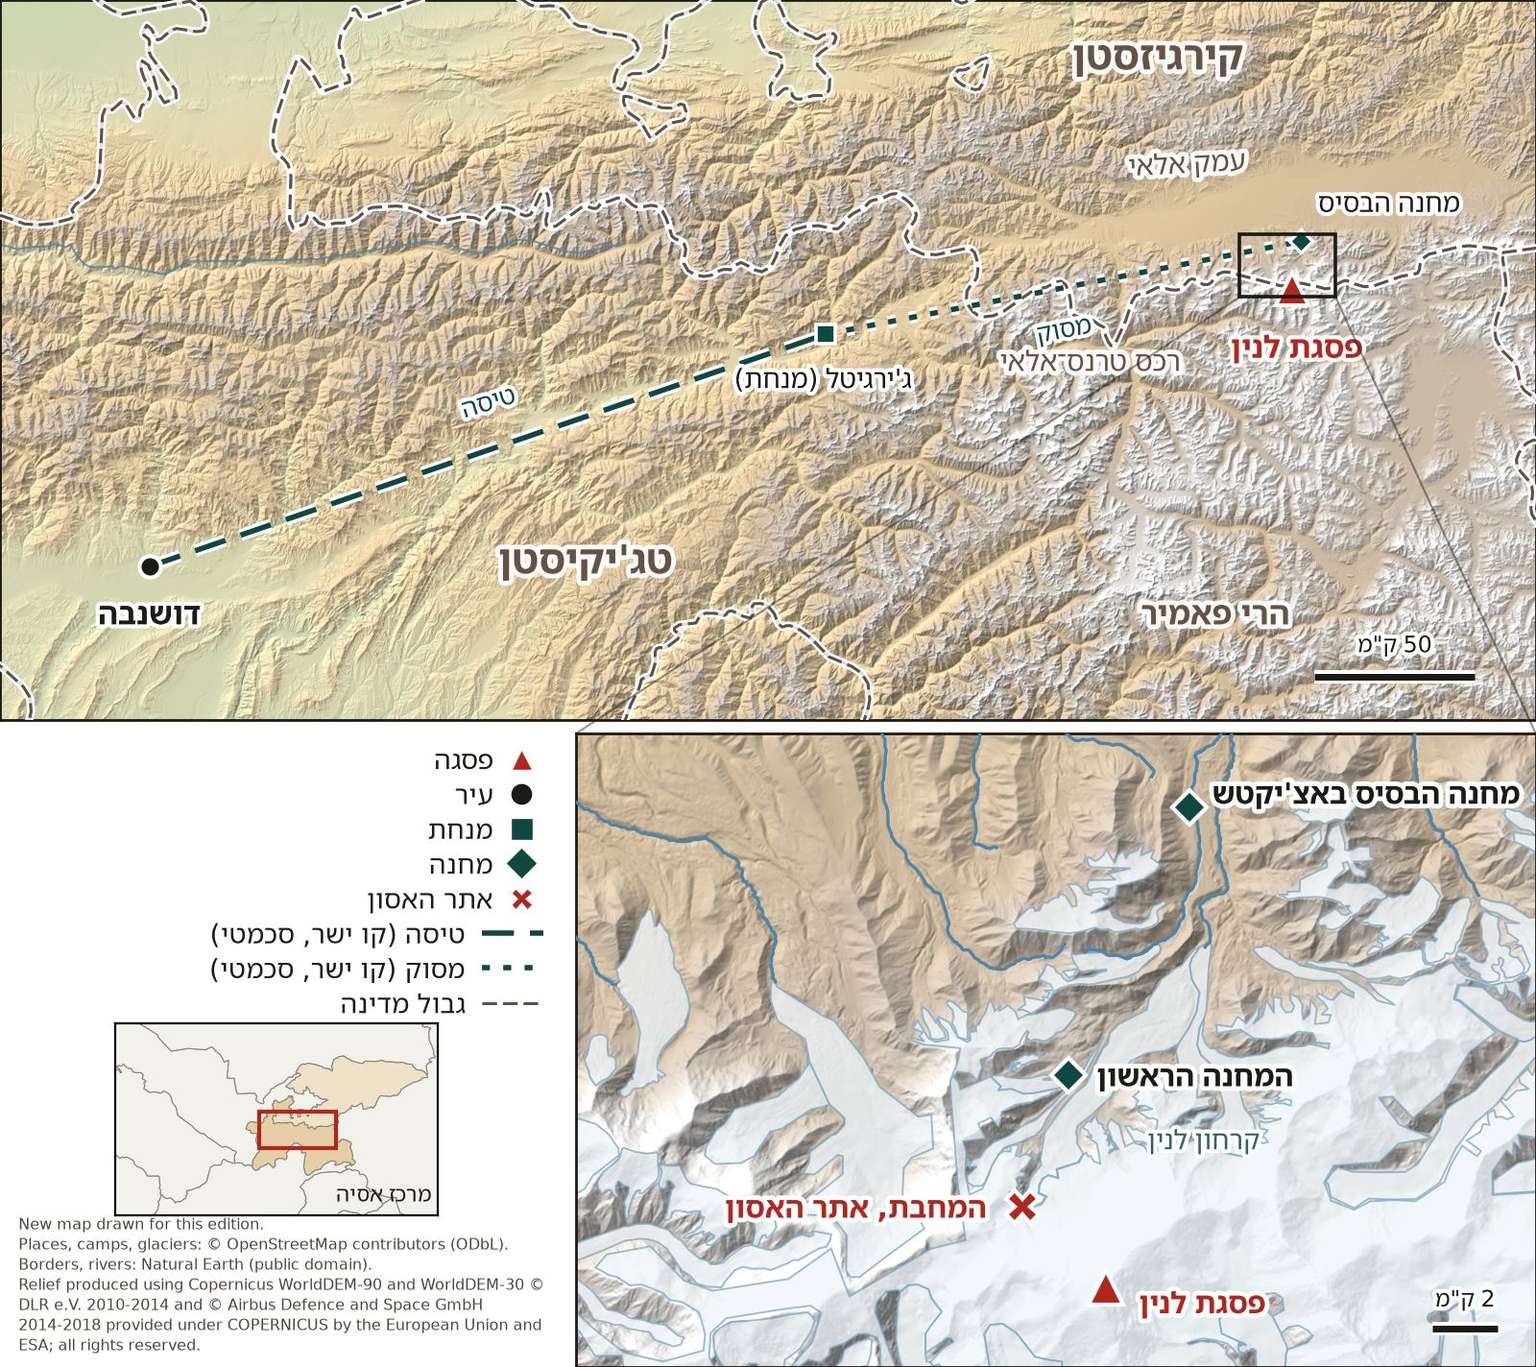
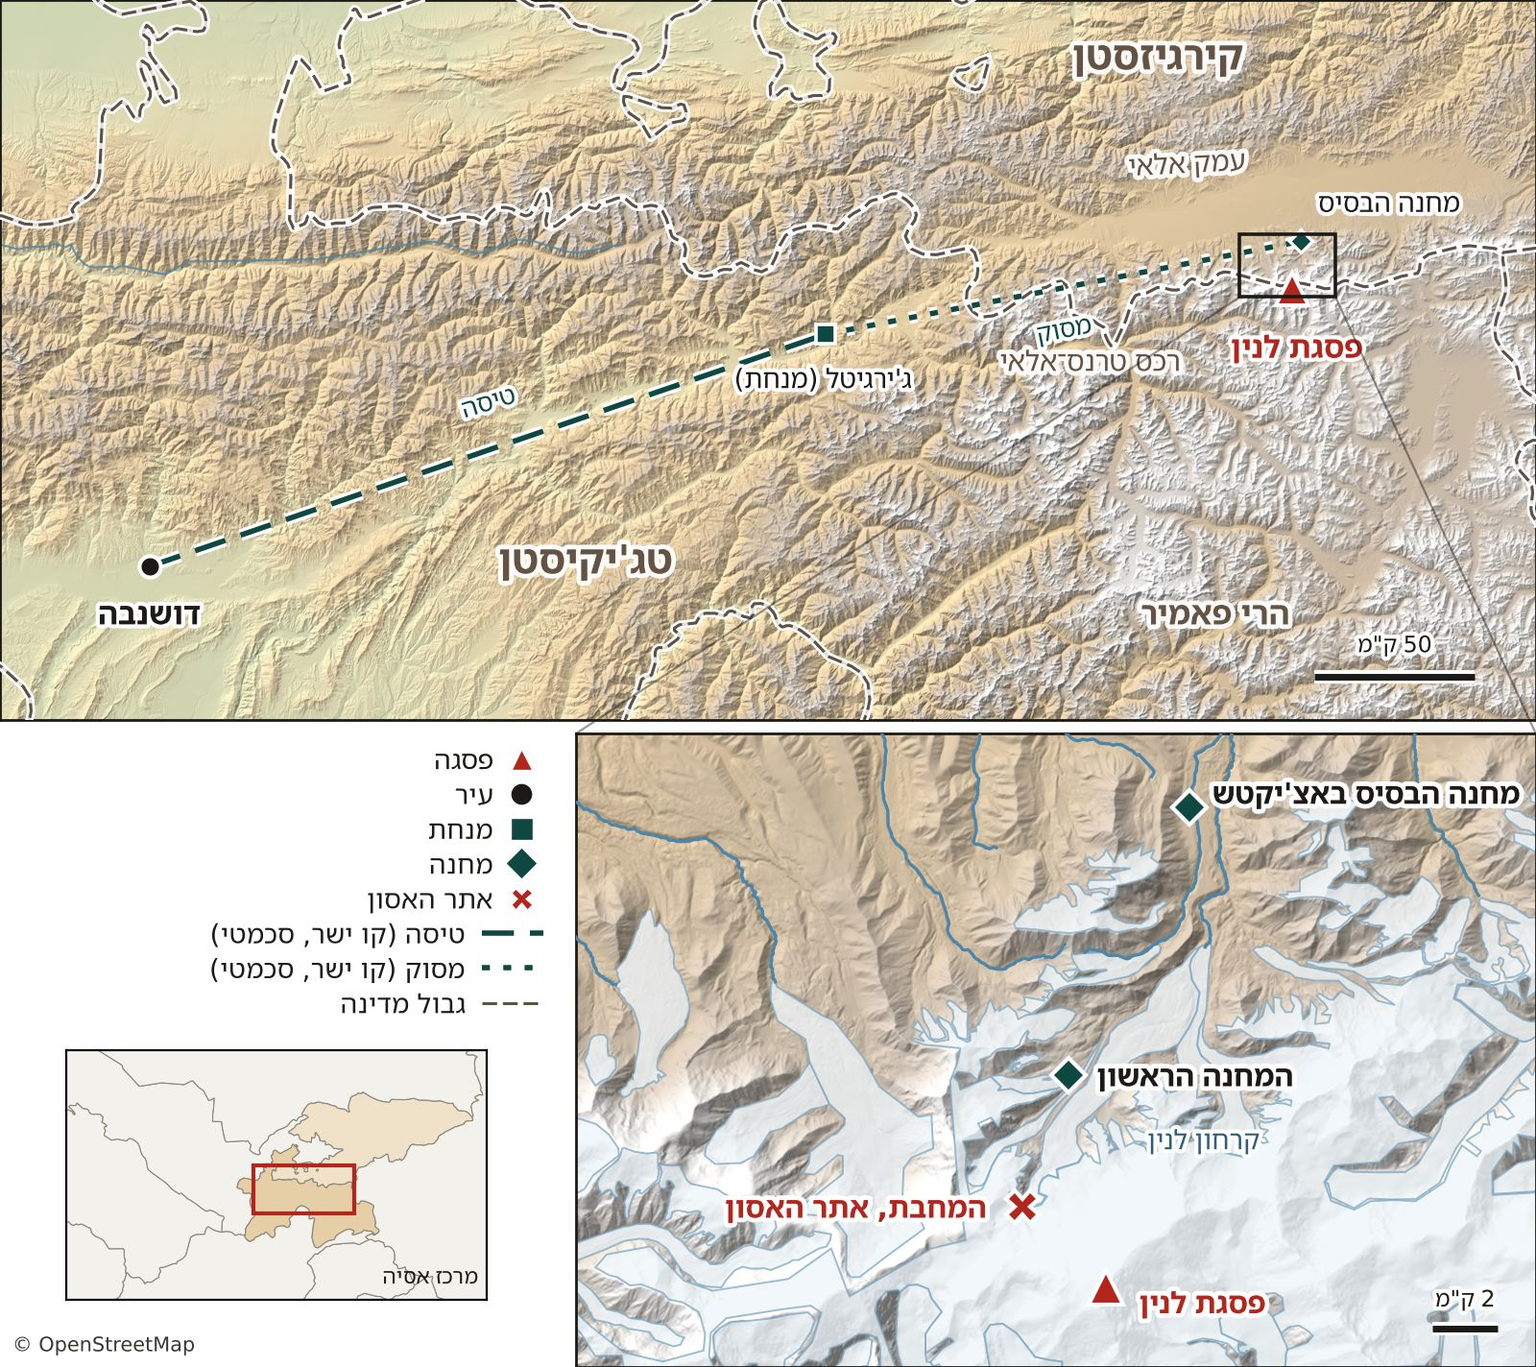
fix: map images carry only a small OpenStreetMap credit
Full OSM and Copernicus DEM notices move to the edition note and the web
credits (content-data/attribution.md quotes the licence clauses). Web map
specs use the OpenTopoMap attribution with links.

Changed region(s): [[0.0, 0.7416, 0.3438, 0.9888]]

diff --git a/scripts/jordan_maps.py b/scripts/jordan_maps.py
@@ -18,7 +18,7 @@ Part C Final Report vol. 1 (2008), section 3.1 segment B and section 3.3.3.5,
 https://www.dfc.gov/sites/default/files/esia/2008/ammanwater/Part%20C%20-Final%20Report-Vol1.pdf
 The alternative routes ALT-1 to ALT-4 in the printed image have no open source, so the view leaves them out.
 
-Data: Copernicus DEM GLO-90 (map_common.dem_credit), OpenStreetMap via Overpass (ODbL),
+Data: Copernicus DEM GLO-90 (notice in map_common.DEM_NOTICE), OpenStreetMap via Overpass (ODbL),
 Natural Earth v5.1.2 borders (public domain).
 
 Usage: uv run scripts/jordan_maps.py
@@ -36,8 +36,9 @@ import numpy as np  # noqa: E402
 from matplotlib.patches import Circle, FancyArrowPatch  # noqa: E402
 from matplotlib.path import Path as PolyPath  # noqa: E402
 
-from map_common import (DEM_PIXELS_PER_DEGREE, NE_CREDIT, OSM_CREDIT, OTM_CREDIT, ROOT, credit_text, dem,  # noqa: E402
-                        dem_credit, halo, hebrew_fonts, hillshade, km_per_degree_lon, natural_earth, osm_element,
+from map_common import (DEM_NOTICE, DEM_PIXELS_PER_DEGREE, OSM_CREDIT, ROOT, WEB_ATTRIBUTION,  # noqa: E402
+                        WEB_ATTRIBUTION_LINKS, dem, halo, hebrew_fonts, hillshade, image_credit, km_per_degree_lon,
+                        natural_earth, osm_element,
                         osm_line, osm_point, osm_rings, overpass, relief, rings, save_jpeg, write_spec)
 
 MAP_OUT = ROOT / "replacements" / "p301-x1169-open-map.jpg"
@@ -216,8 +217,7 @@ def conveyance_map(font, bold, coords, water, countries) -> dict:
     lg.text(0.96, 0.25, "מפה חדשה שצוירה למהדורה זו לפי הטקסט בפרק.\nאינה האיור של ביין וחובריו (2020).\n"
             "התוואי ומיקום המתקן אינם מדויקים.", fontproperties=font, fontsize=8.5, color=INK, ha="right", va="center",
             linespacing=1.35)
-    fig.text(0.98, 0.006, credit_text(f"{OSM_CREDIT} · Borders: {NE_CREDIT}", dem_credit(90) + ".", width=88),
-             fontsize=5.4, color="#4d463e", ha="right", va="bottom", linespacing=1.3, path_effects=halo(2))
+    image_credit(fig, x=0.985, ha="right")  # Full credits: edition note (book.toml) and content-data/attribution.md.
     save_jpeg(fig, MAP_OUT)
     plt.close(fig)
 
@@ -243,11 +243,12 @@ def conveyance_map(font, bold, coords, water, countries) -> dict:
                    "source": schematic.format("a36-p045, a36-p048, fig-a36-09 caption")}],
         "areas": [{"name": "מתקן התפלה, מיקום משוער", "coords": circle,
                    "source": "The book says only 'near the Dead Sea' (a36-p045); zone drawn for this edition"}],
-        "attribution": [OSM_CREDIT, OTM_CREDIT],
+        "attribution": WEB_ATTRIBUTION,
+        "attribution_links": WEB_ATTRIBUTION_LINKS,
         "note": ("New schematic map drawn for this edition from the text of chapter a36. It is not the figure of Bein et al. "
                  "(2020), which stays withheld. Quantities are phase A from the printed caption. The static EPUB image "
                  "(replacements/p301-x1169-open-map.jpg, scripts/jordan_maps.py) adds Copernicus DEM relief and "
-                 "Natural Earth borders. " + dem_credit(90) + "."),
+                 "Natural Earth borders. " + "Relief notice: " + DEM_NOTICE[90] + "."),
     }
 
 
@@ -386,8 +387,7 @@ def plateau_view(font, bold, coords, water, roads) -> dict:
     box = {"facecolor": "white", "alpha": 0.85, "edgecolor": "none", "boxstyle": "round,pad=0.35"}
     out.text(0.985, 0.97, "מבט חדש שצויר למהדורה זו, לכיוון צפון־מזרח. הגבהים מוגדלים פי 2.", fontproperties=font,
              fontsize=9, color=INK, ha="right", va="top", bbox=box)
-    out.text(0.014, 0.014, credit_text(f"Roads: {OSM_CREDIT}", dem_credit(90) + ".", width=110), fontsize=5.2,
-             color="#3d3730", ha="left", va="bottom", linespacing=1.3, bbox=box)
+    image_credit(out, x=0.012, y=0.012)  # Full credits: edition note (book.toml) and content-data/attribution.md.
     save_jpeg(out, VIEW_OUT)
     plt.close(out)
 
@@ -434,12 +434,13 @@ def plateau_view(font, bold, coords, water, roads) -> dict:
                    for c in web_line(road_lines(roads, "15"), web_north)]
                   + [{"name": "דרך המלך (כביש 35)", "coords": c, "source": f"OSM ways tagged ref=35 ({OSM_CREDIT})"}
                      for c in web_line(road_lines(roads, "35"), north)]),
-        "attribution": [OSM_CREDIT, OTM_CREDIT],
+        "attribution": WEB_ATTRIBUTION,
+        "attribution_links": WEB_ATTRIBUTION_LINKS,
         "note": ("New view drawn for this edition; the printed Google Earth image stays withheld. Highways from OSM; "
                  "the King's Highway is shown only in the area of the printed view. The printed alternative routes "
                  "ALT-1 to ALT-4 have no open source and are not shown. Amman is the end of the Desert Highway line "
                  f"(OSM node {PLACES['amman'][0]}). The static EPUB image (replacements/p302-x1173-open-view.jpg, "
-                 "scripts/jordan_maps.py) is a perspective relief view. " + dem_credit(90) + "."),
+                 "scripts/jordan_maps.py) is a perspective relief view. " + "Relief notice: " + DEM_NOTICE[90] + "."),
     }
 
 

diff --git a/scripts/pamir_map.py b/scripts/pamir_map.py
@@ -9,7 +9,7 @@ It shows the places that chapter a10 names: Dushanbe (a10-p007), the Jirgatal ai
 at Achik-Tash (a10-p010), the first camp at 4,400 m (a10-p016, a10-p018), the Frying Pan (a10-p002) and Lenin Peak.
 
 Data:
-- Relief: Copernicus DEM GLO-90 (overview) and GLO-30 (detail), free licence with attribution (map_common.dem_credit).
+- Relief: Copernicus DEM GLO-90 (overview) and GLO-30 (detail), free licence; notice in map_common.DEM_NOTICE.
 - Places, camps, glaciers, rivers in the detail: OpenStreetMap via Overpass, ODbL. Element IDs in PLACES.
 - Borders, rivers and lakes in the overview: Natural Earth v5.1.2, public domain.
 - Range and valley labels: placed by hand along the relief; Wikidata Q1206886 (Trans-Alay Range) and Q2282164 (Alay Valley)
@@ -27,7 +27,8 @@ matplotlib.use("Agg")
 import matplotlib.pyplot as plt  # noqa: E402
 from matplotlib.patches import ConnectionPatch, Rectangle  # noqa: E402
 
-from map_common import (DEM_PIXELS_PER_DEGREE, NE_CREDIT, credit_text, OSM_CREDIT, OTM_CREDIT, ROOT, dem, dem_credit, halo, hebrew_fonts,  # noqa: E402
+from map_common import (DEM_NOTICE, DEM_PIXELS_PER_DEGREE, OSM_CREDIT, ROOT, WEB_ATTRIBUTION, WEB_ATTRIBUTION_LINKS,  # noqa: E402
+                        dem, halo, hebrew_fonts, image_credit,
                         hillshade, km_per_degree_lon, natural_earth, osm_element, osm_line, osm_point, osm_rings,
                         overpass, relief, rings, save_jpeg, write_spec)
 
@@ -209,7 +210,7 @@ def main() -> None:
     legend.plot([0.86, 0.97], [y, y], color="#5c5047", linewidth=1.1, dashes=(5, 2))
     legend.text(0.83, y, "גבול מדינה", fontproperties=font, fontsize=10, color=INK, ha="right", va="center")
 
-    loc = fig.add_axes((0.03, 158 / height_px, 0.3, 200 / height_px))
+    loc = fig.add_axes((0.03, 70 / height_px, 0.3, 260 / height_px))
     lw, le, ls, ln = 58.0, 81.0, 34.5, 45.0
     loc.set_xlim(lw, le)
     loc.set_ylim(ls, ln)
@@ -225,9 +226,7 @@ def main() -> None:
     loc.add_patch(Rectangle((MAIN[0], MAIN[2]), MAIN[1] - MAIN[0], MAIN[3] - MAIN[2], fill=False, edgecolor=ACCENT, linewidth=1.5))
     loc.text(0.98, 0.04, "מרכז אסיה", transform=loc.transAxes, fontproperties=font, fontsize=8, color=INK, ha="right", va="bottom")
 
-    credits = credit_text("New map drawn for this edition.", f"Places, camps, glaciers: {OSM_CREDIT}.",
-                          f"Borders, rivers: {NE_CREDIT}.", dem_credit(90, 30) + ".", width=62)
-    fig.text(0.012, 0.008, credits, fontsize=5.6, color="#4d463e", ha="left", va="bottom", linespacing=1.35)
+    image_credit(fig)  # Full credits: edition note (book.toml) and content-data/attribution.md.
     save_jpeg(fig, OUT)
 
     markers = []
@@ -247,10 +246,12 @@ def main() -> None:
                    "source": "Route as told in a10-p008; straight line between the OSM points, not the flight path"},
                   {"name": "מסוק מג'ירגיטל למחנה הבסיס (קו ישר, סכמטי)", "coords": [[round(j_lat, 6), round(j_lon, 6)], [round(b_lat, 6), round(b_lon, 6)]],
                    "source": "Route as told in a10-p008 and a10-p010; straight line between the OSM points"}],
-        "attribution": [OSM_CREDIT, OTM_CREDIT],
+        "attribution": WEB_ATTRIBUTION,
+        "attribution_links": WEB_ATTRIBUTION_LINKS,
         "note": ("Places from OpenStreetMap (element IDs in each marker source). The book gives heights that differ from "
                  "OSM; the map shows no heights. The static EPUB image (replacements/p066-x251-open-map.jpg, "
-                 "scripts/pamir_map.py) adds Copernicus DEM relief and Natural Earth borders. " + dem_credit(90, 30) + "."),
+                 "scripts/pamir_map.py) adds Copernicus DEM relief and Natural Earth borders. Relief notice: "
+                 + DEM_NOTICE[90] + "; " + DEM_NOTICE[30] + "."),
     })
 
 

diff --git a/scripts/map_common.py b/scripts/map_common.py
@@ -8,7 +8,6 @@ import hashlib
 import io
 import json
 import math
-import textwrap
 import time
 import urllib.error
 import urllib.parse
@@ -30,21 +29,25 @@ DEM_URL = {90: "https://copernicus-dem-90m.s3.amazonaws.com/Copernicus_DSM_COG_3
            30: "https://copernicus-dem-30m.s3.amazonaws.com/Copernicus_DSM_COG_10_{tile}_DEM/Copernicus_DSM_COG_10_{tile}_DEM.tif"}
 DEM_PIXELS_PER_DEGREE = {90: 1200, 30: 3600}
 
-OSM_CREDIT = "© OpenStreetMap contributors (ODbL)"
-NE_CREDIT = "Natural Earth (public domain)"
-OTM_CREDIT = "Map style: © OpenTopoMap (CC BY-SA)"
+OSM_CREDIT = "© OpenStreetMap contributors (ODbL)"  # In source notes of the specs, not shown to readers.
+# Minimal credits; the clauses behind each one are quoted in content-data/attribution.md.
+OSM_IMAGE_CREDIT = "© OpenStreetMap"  # Shortest accepted form (OSMF Attribution Guidelines, "Attribution text").
+OSM_COPYRIGHT_URL = "https://www.openstreetmap.org/copyright"
+WEB_ATTRIBUTION = ["Map data: © OpenStreetMap contributors, SRTM", "Map display: © OpenTopoMap (CC-BY-SA)"]
+WEB_ATTRIBUTION_LINKS = {"OpenStreetMap": OSM_COPYRIGHT_URL, "OpenTopoMap": "https://opentopomap.org",
+                         "CC-BY-SA": "https://creativecommons.org/licenses/by-sa/3.0/"}
+# Copernicus DEM licence, Article 6(b): notice for adapted or modified data, word for word (GLO-90 writes "™").
+DEM_NOTICE = {
+    90: ("produced using Copernicus WorldDEM™-90 © DLR e.V. 2010-2014 and © Airbus Defence and Space GmbH 2014-2018 "
+         "provided under COPERNICUS by the European Union and ESA; all rights reserved"),
+    30: ("produced using Copernicus WorldDEM-30 © DLR e.V. 2010-2014 and © Airbus Defence and Space GmbH 2014-2018 "
+         "provided under COPERNICUS by the European Union and ESA; all rights reserved"),
+}
 
 
-def dem_credit(*resolutions: int) -> str:
-    """Attribution that the Copernicus DEM licence (Article 6) asks for on modified data."""
-    products = " and ".join(f"WorldDEM-{r}" for r in resolutions)
-    return (f"Relief produced using Copernicus {products} © DLR e.V. 2010-2014 and © Airbus Defence and Space GmbH "
-            "2014-2018 provided under COPERNICUS by the European Union and ESA; all rights reserved")
-
-
-def credit_text(*parts: str, width: int) -> str:
-    """Credit lines for the corner of a static map, wrapped to `width` characters."""
-    return "\n".join(textwrap.fill(part, width) for part in parts)
+def image_credit(fig, x: float = 0.008, y: float = 0.008, ha: str = "left") -> None:
+    """The only text credit inside a static map image: a small "© OpenStreetMap" in a corner."""
+    fig.text(x, y, OSM_IMAGE_CREDIT, fontsize=7.5, color="#3d3730", ha=ha, va="bottom", path_effects=halo(2.5))
 
 
 def download(url: str, path: Path) -> bytes:

diff --git a/content-data/attribution.md b/content-data/attribution.md
@@ -1,0 +1,70 @@
+# Attribution for the edition maps
+
+Maps agent, 2026-11-24.
+Scope: the three static map images in replacements/ (p066-x251, p301-x1169, p302-x1173), the web map specs in site/figure-maps/, and the then-and-now layers in site/then-now.json.
+Rule: each image carries only the minimum that each licence allows on the image. The full wording goes in the edition note that the EPUB prints under the image, and in the web credit.
+
+## 1. OpenStreetMap (ODbL)
+
+Source: OSMF, "Licence/Attribution Guidelines", https://osmfoundation.org/wiki/Licence/Attribution_Guidelines , revision 14786 of 2026-09-10. The raw text is saved in work/maps/sources/osm-attribution/page.wiki.
+
+Exact clauses:
+
+- "Attribution must be to “OpenStreetMap”."
+- "Attribution must also make it clear that the data is available under the Open Database License. This may be done by making the text “OpenStreetMap” a link to openstreetmap.org/copyright, which has information about OpenStreetMap’s data sources (which OpenStreetMap needs to credit) as well as the ODbL."
+- "The historical forms of attribution “© OpenStreetMap contributors” or “© OpenStreetMap” are acceptable."
+- Safe harbour: "Attribution must be placed in the vicinity of the produced work or in a location where customarily attribution would be expected by the users of the produced work." and "Attribution must be legible and understandable."
+- Static images: "Static images must be generally attributed the same way as interactive maps. However, if multiple static images appear on the same document, one instance of attribution is sufficient. (For images where hyperlinking is not possible, see the “Books, magazines and printed maps” section.)"
+- Interactive maps: "While the lower right corner is traditional, any corner of the map is acceptable. Alternatively, the attribution may be placed adjacent to the map or on a splash screen or pop-up shown when a user starts the app, device, website, etc."
+- Books, magazines, and printed maps: "For a printed map and similar media (that is ebooks, PDFs and so on), the credit must appear beside the map if that is where other such credits appear, or in a footnote/endnote if that is where other credits appear, or in the “acknowledgements” section of the publication (often at the start of a book or magazine) if that is where other credits appear. The URL to openstreetmap.org/copyright must be printed out."
+
+What follows:
+
+- In the EPUB, the credit may stand in the edition note under the image, because the edition puts its other image credits there. The note must print the URL openstreetmap.org/copyright.
+- The licence does not require OSM text inside the image. The images still keep a small "© OpenStreetMap" in a corner, the shortest accepted form. The web reader can show an image without its caption (the figure dialog), and an image can travel on its own.
+- Web maps (Leaflet): the credit sits in a map corner, with "OpenStreetMap" linked to https://www.openstreetmap.org/copyright.
+
+## 2. Copernicus DEM (WorldDEM™-90 and WorldDEM-30)
+
+Source: ESA, "Copernicus Contributing Mission Data Access" licence document, issue date 21/02/2025. It contains "Licence for COP-DEM-GLO-90-F Global 90m Full, Free & Open: Licence for the use of the Copernicus WorldDEM™-90" and the licence for the Copernicus WorldDEM-30: https://dataspace.copernicus.eu/sites/default/files/media/files/2025-06/copernicus_contributing_mission_data_access_v2_cop_dem_licenses.pdf . The WorldDEM-30 licence also stands alone: https://documentation.dataspace.copernicus.eu/APIs/SentinelHub/Data/DEM/resources/license/License-COPDEM-30.pdf . Both PDFs and their text are saved in work/maps/sources/copdem-licence/.
+
+Exact clauses, Article 6 "User Obligations" of the WorldDEM™-90 licence. The WorldDEM-30 licence has the same text with "WorldDEM-30", without "™".
+
+- (a) "When communicating to the General Public or distributing the Copernicus WorldDEM™-90, the User shall inform the General Public of the source by using the following notice: © DLR e.V. 2010-2014 and © Airbus Defence and Space GmbH 2014-2018 provided under COPERNICUS by the European Union and ESA; all rights reserved."
+- (b) "Where the Copernicus WorldDEM™-90 data have been adapted or modified, the User shall provide the following notice: "produced using Copernicus WorldDEM™-90 © DLR e.V. 2010-2014 and © Airbus Defence and Space GmbH 2014-2018 provided under COPERNICUS by the European Union and ESA; all rights reserved”."
+- (c) "Users exercising the right of distribution or communication to the General Public of the Copernicus WorldDEM™-90, modified or not, must ensure that the Subsequent Users understand that neither the Licensor nor any other legal entities in charge of the Copernicus programme or the delivery of Copernicus data and information under the Copernicus programme may be held liable with regard to any aspect of the Copernicus WorldDEM™-90. The following sentence or its translation in any language shall be added by such Users in a licence or any legal warning or notice covering their distribution or communication to the General Public of the Copernicus WorldDEM™-90: "The organisations in charge of the Copernicus programme by law or by delegation do not incur any liability for any use of the Copernicus WorldDEM™-90"."
+- (d) "User shall make sure not to convey the impression to the General Public that the user's activities are officially endorsed by the Provider, the Licensor or any other legal entities in charge of the Copernicus programme or the delivery of Copernicus data and information under the Copernicus programme."
+
+What follows:
+
+- The maps show relief computed from the DEM (hillshade and colour by height), so notice (b) applies, word for word. The licence fixes the wording but not its place. It does not ask for the notice inside the image.
+- The notice therefore sits in the edition note under the image, in English as written. The image has no DEM text.
+- The disclaimer of (c), in English or in a translation, belongs in the edition's legal or credits notice: the EPUB copyright or credits page, and the credits page of the web site. Suggested Hebrew translation: "הגופים האחראים לתוכנית קופרניקוס על פי דין או מכוח האצלה אינם נושאים באחריות כלשהי לשימוש כלשהו ב־Copernicus WorldDEM™-90 וב־Copernicus WorldDEM-30."
+- p066 uses both products (90 m overview, 30 m detail panel) and carries both notices. p301 and p302 use WorldDEM™-90 only.
+
+## 3. Natural Earth
+
+Source: https://www.naturalearthdata.com/about/terms-of-use/ : "All versions of Natural Earth raster + vector map data found on this website are in the public domain." "No permission is needed to use Natural Earth." "Crediting the authors is unnecessary."
+No credit in the image. The edition note names Natural Earth as a courtesy.
+
+## 4. OpenTopoMap (web base map only)
+
+Source: https://opentopomap.org/about , section "Verwendung": "Kartendaten: © OpenStreetMap-Mitwirkende, SRTM | Kartendarstellung: © OpenTopoMap (CC-BY-SA)". The page links "OpenStreetMap" to openstreetmap.org/copyright, "OpenTopoMap" to opentopomap.org, and "CC-BY-SA" to creativecommons.org/licenses/by-sa/3.0/.
+The web map specs give the English form "Map data: © OpenStreetMap contributors, SRTM" and "Map display: © OpenTopoMap (CC-BY-SA)", with the three links in "attribution_links".
+
+## 5. Copernicus Sentinel-2 (then-and-now layer)
+
+Source: Sentinel data legal notice, https://sentinels.copernicus.eu/documents/247904/690755/Sentinel_Data_Legal_Notice : "Copernicus Sentinel data [Year]" for unmodified data, "Contains modified Copernicus Sentinel data [Year]" for modified data.
+The layer image has no text. site/then-now.json gives the credit "Contains modified Copernicus Sentinel data 2026" for the web view to show with the layer.
+
+## Resulting credit text
+
+| Image | In the image | Full credit |
+|---|---|---|
+| p066-x251 | "© OpenStreetMap", lower left | Edition note: OSM with URL, Natural Earth, WorldDEM™-90 and WorldDEM-30 notices |
+| p301-x1169 | "© OpenStreetMap", lower right | Edition note: OSM with URL, Natural Earth, WorldDEM™-90 notice |
+| p302-x1173 | "© OpenStreetMap", lower left | Edition note: OSM with URL, WorldDEM™-90 notice |
+| site/figure-maps/*.json | (web map corner) | "attribution" and "attribution_links" |
+| then-now layers | none | "credit" of each layer |
+
+The exact note text for book.toml is in work/maps/HANDOFF.md.
